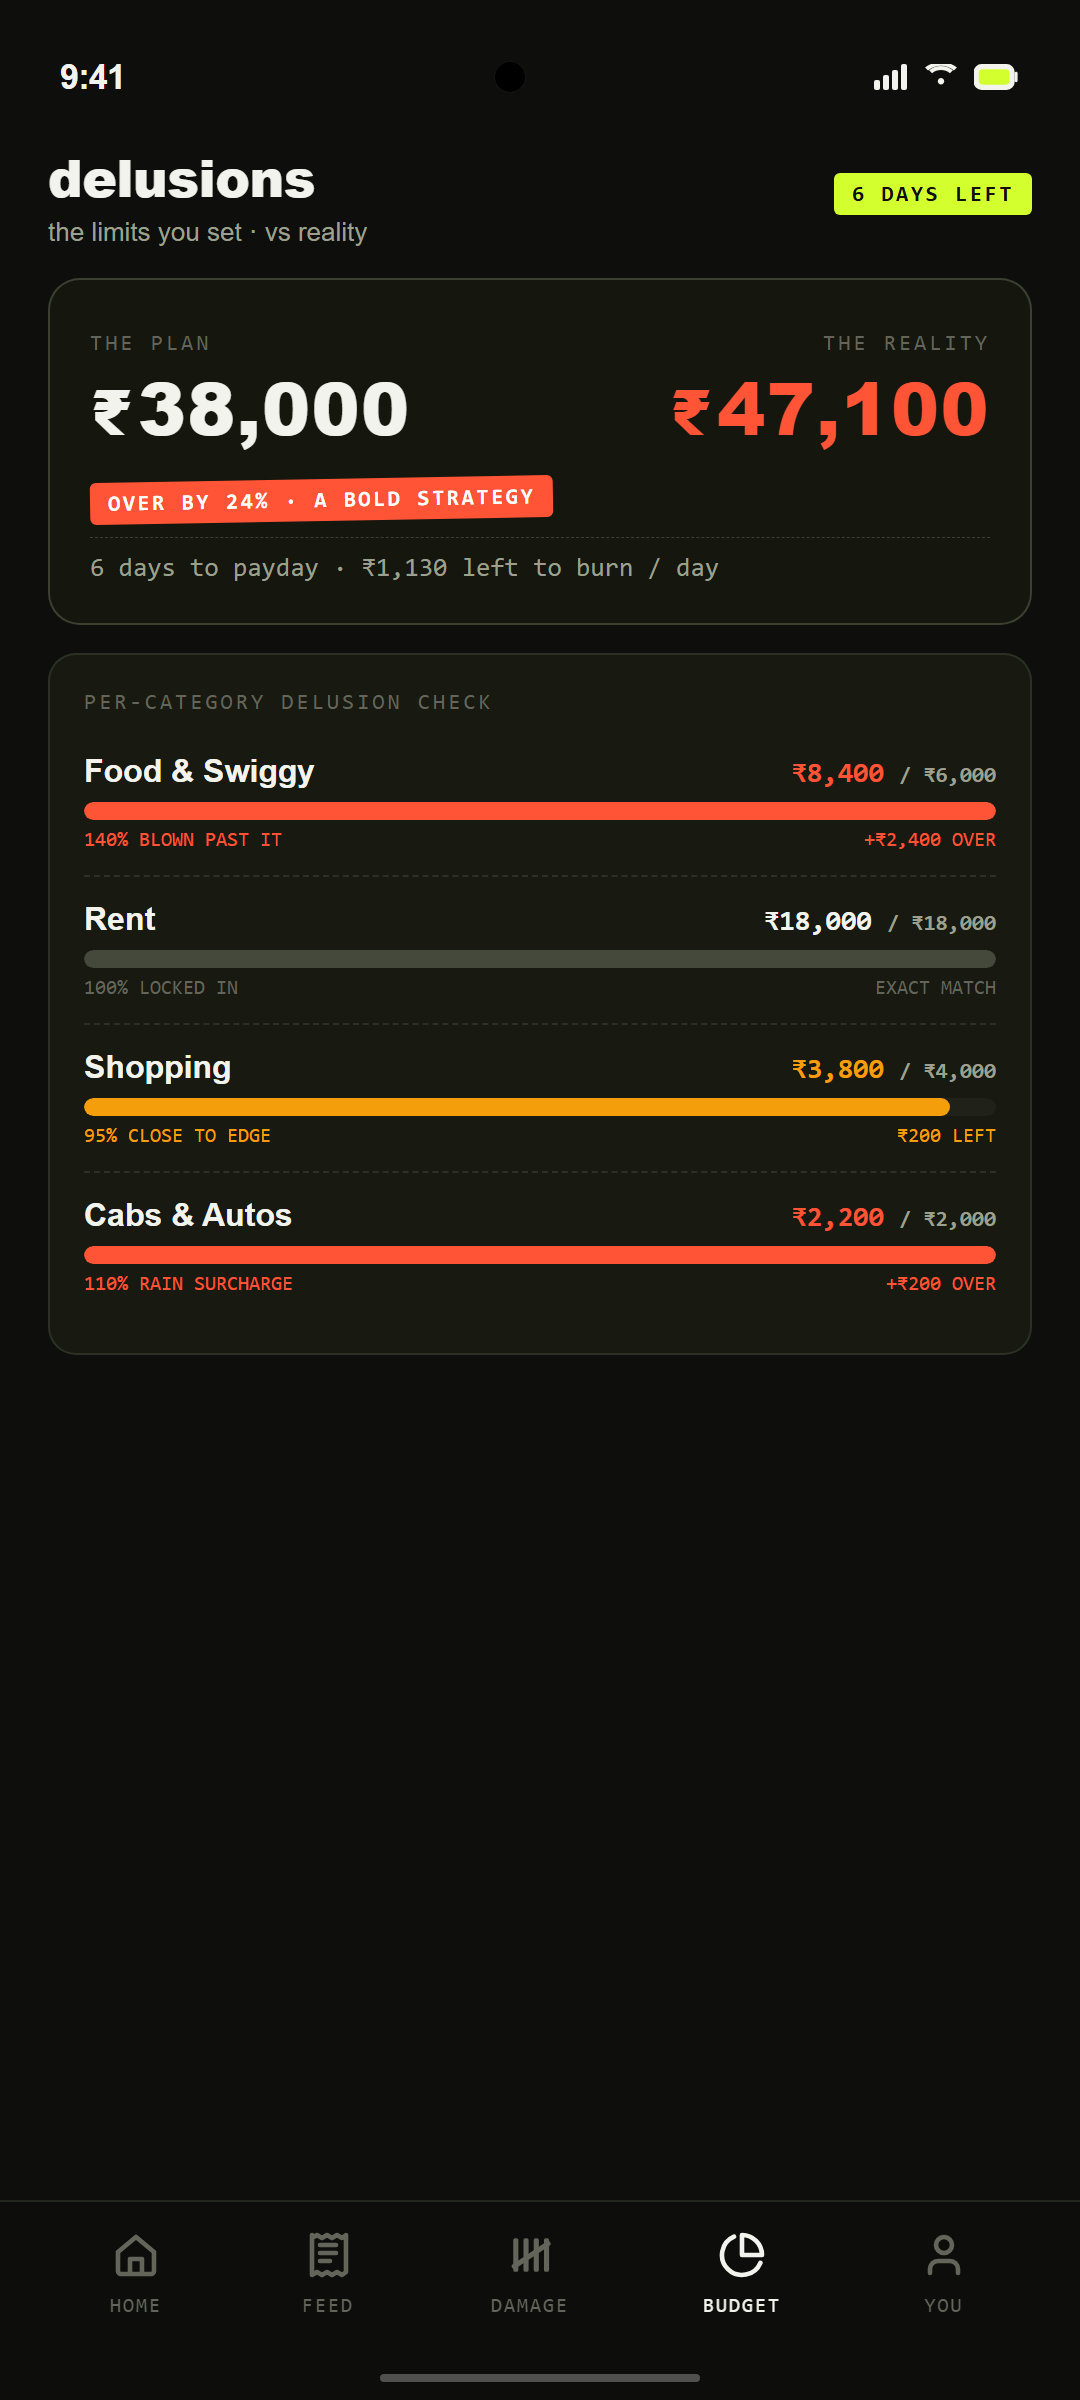
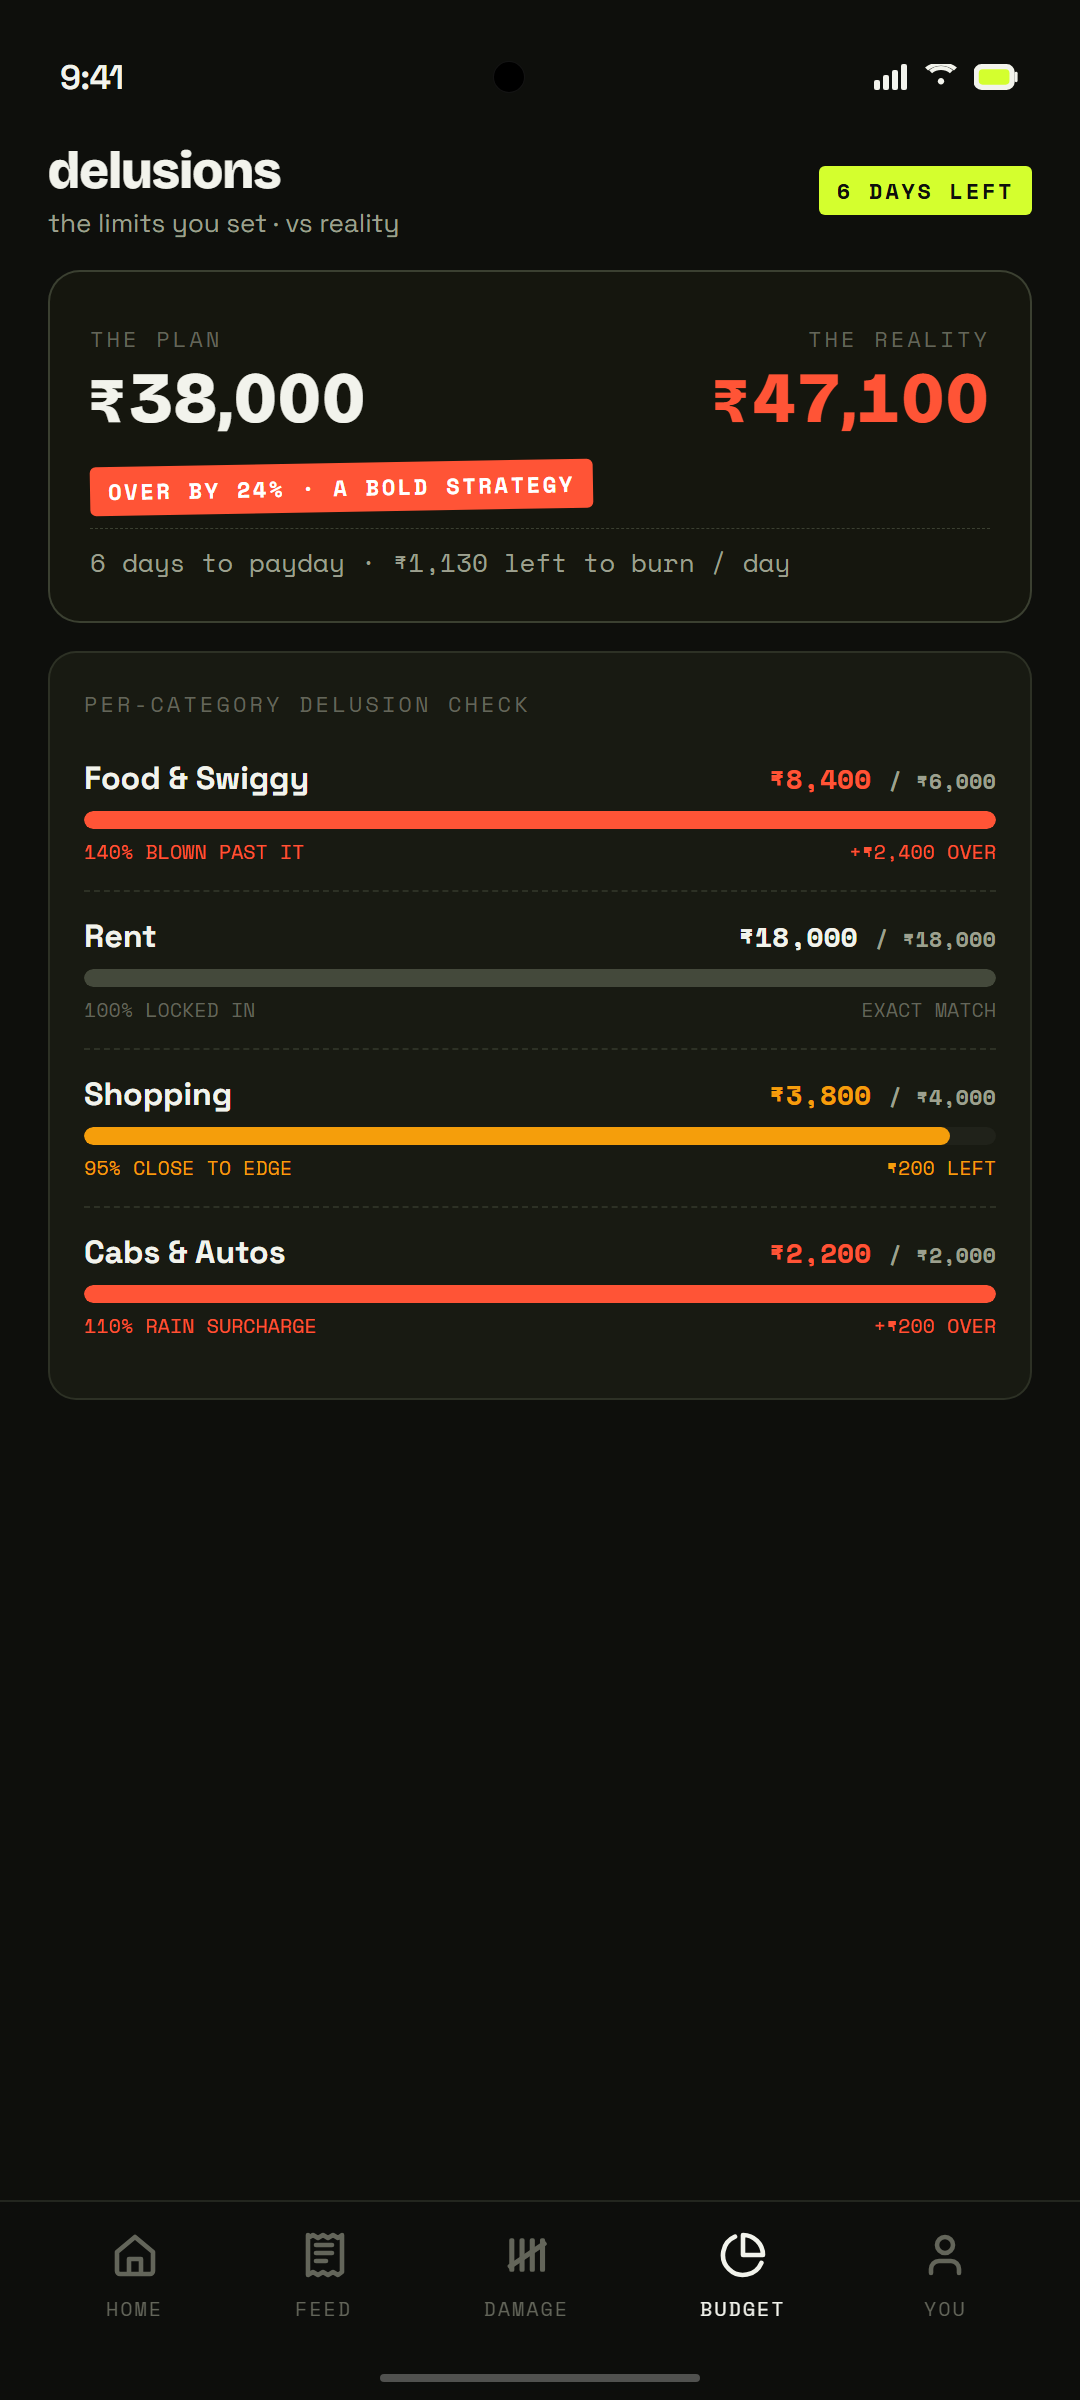
feat(stamp): touch bottom-left to top-right corners and restore top verdict header

diff --git a/src/tally/screens/HomeScreen.js b/src/tally/screens/HomeScreen.js
@@ -72,11 +72,11 @@ function FeralStampOverlay({ accent }) {
         transform: [
           { translateY: stampY },
           { scale: stampScale },
-          { rotate: '28deg' },
+          { rotate: '-28deg' },
         ],
       }}
     >
-      {/* Authentic Diagonal Corner-to-Corner Rubber Stamp */}
+      {/* Authentic Diagonal Corner-to-Corner Rubber Stamp (Bottom-Left to Top-Right) */}
       <View
         style={{
           width: 380,
@@ -99,17 +99,30 @@ function FeralStampOverlay({ accent }) {
             borderRadius: 5,
             paddingVertical: 5,
             paddingHorizontal: 16,
-            flexDirection: 'row',
             alignItems: 'center',
-            justifyContent: 'center',
-            gap: 8,
+            gap: 2,
           }}
         >
-          <Text style={{ color: stampInk, fontSize: 10, opacity: 0.85 }}>★</Text>
+          {/* Top Stamp Header */}
+          <Text
+            style={{
+              fontFamily: FONTS.monoBold,
+              fontSize: 8,
+              color: stampInk,
+              letterSpacing: 2,
+              textTransform: 'uppercase',
+            }}
+          >
+            ★ OFFICIAL TALLY VERDICT ★
+          </Text>
+
+          <View style={{ width: '100%', height: 1, backgroundColor: stampInk, opacity: 0.5, marginVertical: 2 }} />
+
+          {/* Main Stamp Headline */}
           <Text
             style={{
               fontFamily: FONTS.display,
-              fontSize: 15,
+              fontSize: 16,
               color: stampInk,
               letterSpacing: 3.5,
               fontWeight: '900',
@@ -118,7 +131,6 @@ function FeralStampOverlay({ accent }) {
           >
             FINANCIALLY FERAL
           </Text>
-          <Text style={{ color: stampInk, fontSize: 10, opacity: 0.85 }}>★</Text>
         </View>
       </View>
     </Animated.View>

diff --git a/scripts/generate_screenshots.py b/scripts/generate_screenshots.py
@@ -396,10 +396,10 @@ def build_screen_dashboard():
   position: absolute;
   top: 50%;
   left: 50%;
-  transform: translate(-50%, -50%) rotate(28deg);
+  transform: translate(-50%, -50%) rotate(-28deg);
   width: 1080px;
   border: 5px solid var(--red);
-  border-radius: 14px;
+  border-radius: 12px;
   padding: 4px;
   background: rgba(255, 68, 37, 0.08);
   pointer-events: none;
@@ -412,27 +412,36 @@ def build_screen_dashboard():
 .stamp-feral-inner {{
   width: 100%;
   border: 2px solid var(--red);
-  border-radius: 8px;
-  padding: 10px 24px;
+  border-radius: 7px;
+  padding: 8px 24px;
   display: flex;
+  flex-direction: column;
   align-items: center;
-  justify-content: center;
-  gap: 16px;
+  gap: 4px;
 }}
-.stamp-feral-star {{
-  font-size: 22px;
+.stamp-feral-tag {{
+  font-family: var(--mono);
+  font-size: 16px;
+  font-weight: 700;
+  letter-spacing: 4px;
   color: var(--red);
-  opacity: 0.85;
+  text-transform: uppercase;
+}}
+.stamp-feral-rule {{
+  width: 100%;
+  height: 1.5px;
+  background: var(--red);
+  opacity: 0.6;
 }}
 .stamp-feral-title {{
   font-family: var(--display);
-  font-size: 32px;
+  font-size: 36px;
   font-weight: 900;
   letter-spacing: 8px;
   color: var(--red);
   text-transform: uppercase;
   white-space: nowrap;
-  line-height: 1.0;
+  line-height: 1.1;
 }}
 </style>
 </head>
@@ -451,9 +460,9 @@ def build_screen_dashboard():
     <div class="card-hero" style="position:relative; overflow:hidden;">
       <div class="stamp-feral">
         <div class="stamp-feral-inner">
-          <span class="stamp-feral-star">★</span>
-          <span class="stamp-feral-title">FINANCIALLY FERAL</span>
-          <span class="stamp-feral-star">★</span>
+          <div class="stamp-feral-tag">★ OFFICIAL TALLY VERDICT ★</div>
+          <div class="stamp-feral-rule"></div>
+          <div class="stamp-feral-title">FINANCIALLY FERAL</div>
         </div>
       </div>
       <div style="display:flex; justify-content:space-between; align-items:center;">
